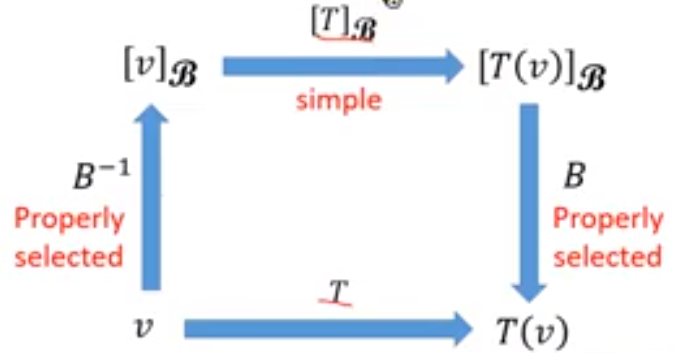
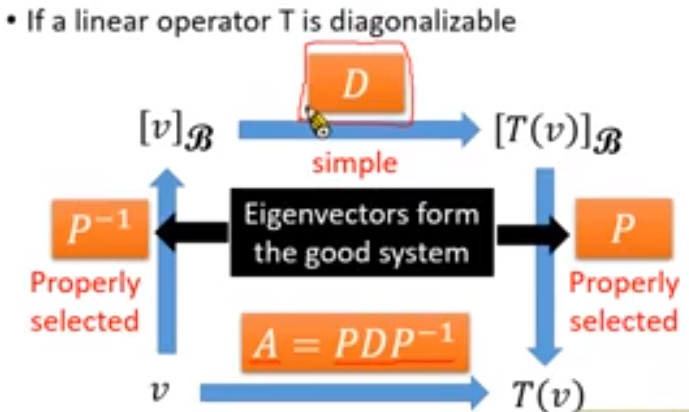
PageRank Algorithm

diff --git a/5_线性代数/5_特征值和特征向量.md b/5_线性代数/5_特征值和特征向量.md
@@ -74,7 +74,7 @@
 
 ---
 
-* **对角化（Diagonalization）**
+* **5.2 对角化（Diagonalization）**
 
   * 概述
 
@@ -118,67 +118,25 @@
 
     ![avatar](./images/u52_Diagonalization_Summary.png)
 
+---
 
+* **5.3 PageRank 算法**
 
+  * 原理
 
+    ![avatar](./images/u53_PageRank_Principle_1.png)
 
+    ![avatar](./images/u53_PageRank_Principle_2.png)
 
+    ![avatar](./images/u53_PageRank_Principle_3.png)
 
+  * 总结
 
-
-
-
-
-
-
-
-
-
-
-
-
-
-
-
-
-
-
-
-
-
-
-
-
-
-
-
-
-
-
-
-
-
-
-
-
-
-
-
-
-
-
-
-
-
-
-
-
-
-
-
-
-
-
-
-
+    * $M = (1 - m)A + mS$
+    * There are two ways to surf the web
+      * A : Follow the link
+      * mS : random
+    * For M, the dim of the eigenvalue λ = 1 is 1
+      * M is Column-stochastic matrix and "positive"
+      * For M, the eigenvectors for eigenvalue λ = 1 are all "positive" or "negative"
 

diff --git a/5_线性代数/6_正交性.md b/5_线性代数/6_正交性.md
@@ -1,0 +1,5 @@
+#### 6.正交性（Orthogonality）
+
+* ##### 6.1 概述 
+
+  * Norm & Distance
